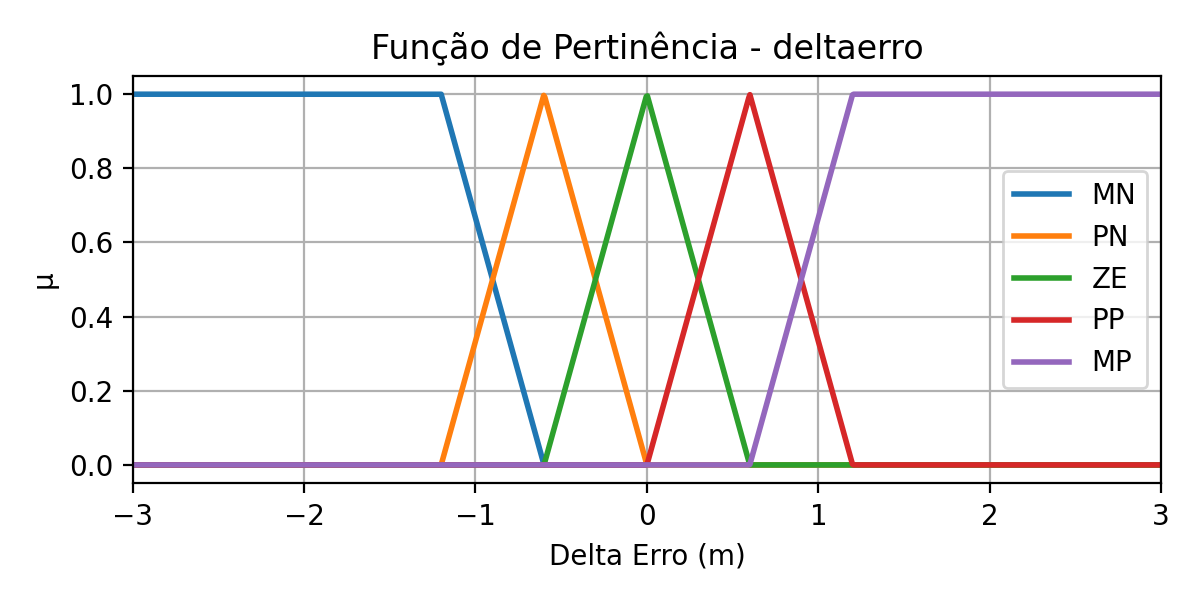
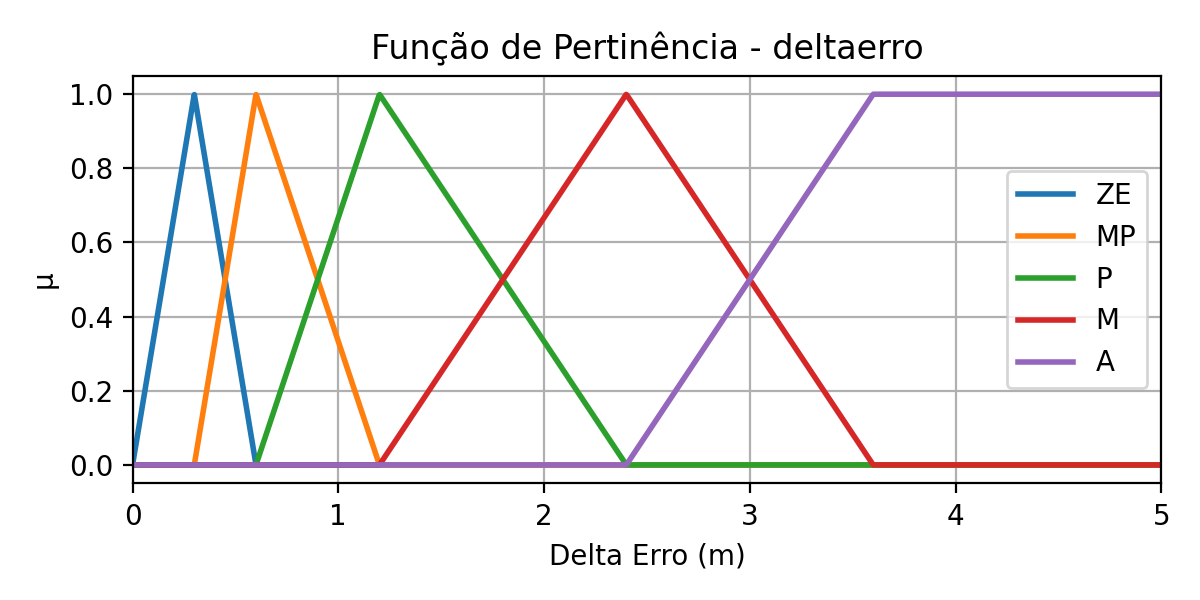
feat: modificações

diff --git a/main.py b/main.py
@@ -9,21 +9,21 @@ from tabulate import tabulate
 import re
 
 # === Fuzzy System Setup ===
-Erro = ctrl.Antecedent(np.arange(-32, 32.1, 1), 'Erro')
-DeltaErro = ctrl.Antecedent(np.arange(-32, 32.1, 1), 'DeltaErro')
+Erro = ctrl.Antecedent(np.arange(0, 32.1, 1), 'Erro')
+DeltaErro = ctrl.Antecedent(np.arange(0, 32.1, 1), 'DeltaErro')
 PMotor = ctrl.Consequent(np.arange(0, 91, 1), 'PMotor')
 
-Erro['MN'] = fuzzy.trapmf(Erro.universe, [-32, -32, -1.2, -0.6])
-Erro['PN'] = fuzzy.trimf(Erro.universe, [-1.2, -0.6, 0])
-Erro['ZE'] = fuzzy.trimf(Erro.universe, [-0.6, 0, 0.6])
-Erro['PP'] = fuzzy.trimf(Erro.universe, [0, 0.6, 1.2])
-Erro['MP'] = fuzzy.trapmf(Erro.universe, [0.6, 1.2, 32, 32])
+Erro['ZE'] = fuzzy.trimf(Erro.universe, [0, 0.3, 0.6])
+Erro['MP'] = fuzzy.trimf(Erro.universe, [0.3, 0.6, 1.2])
+Erro['P'] = fuzzy.trimf(Erro.universe, [0.6, 1.2, 2.4])
+Erro['M'] = fuzzy.trimf(Erro.universe, [1.2, 2.4, 3.6])
+Erro['A'] = fuzzy.trapmf(Erro.universe, [2.4, 3.6, 32, 32])
 
-DeltaErro['MN'] = fuzzy.trapmf(Erro.universe, [-32, -32, -1.2, -0.6])
-DeltaErro['PN'] = fuzzy.trimf(Erro.universe, [-1.2, -0.6, 0])
-DeltaErro['ZE'] = fuzzy.trimf(Erro.universe, [-0.6, 0, 0.6])
-DeltaErro['PP'] = fuzzy.trimf(Erro.universe, [0, 0.6, 1.2])
-DeltaErro['MP'] = fuzzy.trapmf(Erro.universe, [0.6, 1.2, 32, 32])
+DeltaErro['ZE'] = fuzzy.trimf(Erro.universe, [0, 0.3, 0.6])
+DeltaErro['MP'] = fuzzy.trimf(Erro.universe, [0.3, 0.6, 1.2])
+DeltaErro['P'] = fuzzy.trimf(Erro.universe, [0.6, 1.2, 2.4])
+DeltaErro['M'] = fuzzy.trimf(Erro.universe, [1.2, 2.4, 3.6])
+DeltaErro['A'] = fuzzy.trapmf(Erro.universe, [2.4, 3.6, 32, 32])
 
 PMotor['I'] = fuzzy.trimf(PMotor.universe, [0, 15.75, 31.5])
 PMotor['P'] = fuzzy.trimf(PMotor.universe, [15.75, 31.5, 45])
@@ -47,35 +47,35 @@ PMotor['A'] = fuzzy.trimf(PMotor.universe, [45, 90, 90])
 #         regras.append(ctrl.Rule(Erro[e] & DeltaErro[d], PMotor[s]))
 
 # Definição das regras fuzzy
-R1 = ctrl.Rule(Erro['MN'] & DeltaErro['MN'], PMotor['A'])
-R2 = ctrl.Rule(Erro['PN'] & DeltaErro['MN'], PMotor['A'])
-R3 = ctrl.Rule(Erro['ZE'] & DeltaErro['MN'], PMotor['A'])
-R4 = ctrl.Rule(Erro['PP'] & DeltaErro['MN'], PMotor['M'])
-R5 = ctrl.Rule(Erro['MP'] & DeltaErro['MN'], PMotor['M'])
+R1 = ctrl.Rule(Erro['ZE'] & DeltaErro['ZE'], PMotor['I'])
+R2 = ctrl.Rule(Erro['MP'] & DeltaErro['ZE'], PMotor['P'])
+R3 = ctrl.Rule(Erro['P'] & DeltaErro['ZE'], PMotor['P'])
+R4 = ctrl.Rule(Erro['M'] & DeltaErro['ZE'], PMotor['P'])
+R5 = ctrl.Rule(Erro['A'] & DeltaErro['ZE'], PMotor['M'])
 
-R6 = ctrl.Rule(Erro['MN'] & DeltaErro['PN'], PMotor['A'])
-R7 = ctrl.Rule(Erro['PN'] & DeltaErro['PN'], PMotor['A'])
-R8 = ctrl.Rule(Erro['ZE'] & DeltaErro['PN'], PMotor['M'])
-R9 = ctrl.Rule(Erro['PP'] & DeltaErro['PN'], PMotor['M'])
-R10 = ctrl.Rule(Erro['MP'] & DeltaErro['PN'], PMotor['M'])
+R6 = ctrl.Rule(Erro['ZE'] & DeltaErro['MP'], PMotor['P'])
+R7 = ctrl.Rule(Erro['MP'] & DeltaErro['MP'], PMotor['P'])
+R8 = ctrl.Rule(Erro['P'] & DeltaErro['MP'], PMotor['P'])
+R9 = ctrl.Rule(Erro['M'] & DeltaErro['MP'], PMotor['M'])
+R10 = ctrl.Rule(Erro['A'] & DeltaErro['MP'], PMotor['M'])
 
-R11 = ctrl.Rule(Erro['MN'] & DeltaErro['ZE'], PMotor['A'])
-R12 = ctrl.Rule(Erro['PN'] & DeltaErro['ZE'], PMotor['M'])
-R13 = ctrl.Rule(Erro['ZE'] & DeltaErro['ZE'], PMotor['M'])
-R14 = ctrl.Rule(Erro['PP'] & DeltaErro['ZE'], PMotor['M'])
-R15 = ctrl.Rule(Erro['MP'] & DeltaErro['ZE'], PMotor['P'])
+R11 = ctrl.Rule(Erro['ZE'] & DeltaErro['P'], PMotor['P'])
+R12 = ctrl.Rule(Erro['MP'] & DeltaErro['P'], PMotor['P'])
+R13 = ctrl.Rule(Erro['P'] & DeltaErro['P'], PMotor['M'])
+R14 = ctrl.Rule(Erro['M'] & DeltaErro['P'], PMotor['M'])
+R15 = ctrl.Rule(Erro['A'] & DeltaErro['P'], PMotor['A'])
 
-R16 = ctrl.Rule(Erro['MN'] & DeltaErro['PP'], PMotor['M'])
-R17 = ctrl.Rule(Erro['PN'] & DeltaErro['PP'], PMotor['M'])
-R18 = ctrl.Rule(Erro['ZE'] & DeltaErro['PP'], PMotor['M'])
-R19 = ctrl.Rule(Erro['PP'] & DeltaErro['PP'], PMotor['P'])
-R20 = ctrl.Rule(Erro['MP'] & DeltaErro['PP'], PMotor['P'])
+R16 = ctrl.Rule(Erro['ZE'] & DeltaErro['M'], PMotor['P'])
+R17 = ctrl.Rule(Erro['MP'] & DeltaErro['M'], PMotor['M'])
+R18 = ctrl.Rule(Erro['P'] & DeltaErro['M'], PMotor['M'])
+R19 = ctrl.Rule(Erro['M'] & DeltaErro['M'], PMotor['A'])
+R20 = ctrl.Rule(Erro['A'] & DeltaErro['M'], PMotor['A'])
 
-R21 = ctrl.Rule(Erro['MN'] & DeltaErro['MP'], PMotor['M'])
-R22 = ctrl.Rule(Erro['PN'] & DeltaErro['MP'], PMotor['M'])
-R23 = ctrl.Rule(Erro['ZE'] & DeltaErro['MP'], PMotor['P'])
-R24 = ctrl.Rule(Erro['PP'] & DeltaErro['MP'], PMotor['P'])
-R25 = ctrl.Rule(Erro['MP'] & DeltaErro['MP'], PMotor['P'])
+R21 = ctrl.Rule(Erro['ZE'] & DeltaErro['A'], PMotor['M'])
+R22 = ctrl.Rule(Erro['MP'] & DeltaErro['A'], PMotor['M'])
+R23 = ctrl.Rule(Erro['P'] & DeltaErro['A'], PMotor['A'])
+R24 = ctrl.Rule(Erro['M'] & DeltaErro['A'], PMotor['A'])
+R25 = ctrl.Rule(Erro['A'] & DeltaErro['A'], PMotor['A'])
 
 # Montagem da base de regras
 qtdRegras = len(Erro.terms) * len(DeltaErro.terms)
@@ -127,7 +127,7 @@ def controle_loop():
     Ts = 0.2
 
     k1 = 1 if setpoint > posicao_atual else -1
-    erro_anterior = posicao_atual - setpoint
+    erro_anterior = abs(posicao_atual - setpoint)
 
     for i in range(10):
         if parar_controle:
@@ -146,16 +146,26 @@ def controle_loop():
             em_execucao = False
             return
 
-        erro = posicao_atual - setpoint
-        delta_erro = erro - erro_anterior
+        erro = abs(posicao_atual - setpoint)
+        delta_erro = abs(erro - erro_anterior)
 
-        if abs(erro) <= 0.03:
-            break
+        if erro <= 0.03:
+            em_execucao = False
+            return
 
         controle.input['Erro'] = erro
         controle.input['DeltaErro'] = delta_erro
         controle.compute()
-        potencia = controle.output['PMotor'] / 100
+        try:
+            potencia = controle.output['PMotor'] / 100
+        except KeyError:
+            print("Erro ao acessar PMotor. Verifique as entradas e regras.")
+            print("Entradas:")
+            print(f"Erro = {erro}, DeltaErro = {delta_erro}")
+            print(f"posicao_atual = {posicao_atual}")
+            print(f"setpoint = {setpoint}")
+            print("Saídas disponíveis:", controle.output)
+            return
 
         posicao_atual = abs(k1 * posicao_atual * 0.9995 + potencia * 0.212312)
         client.publish(topic_posicao, round(posicao_atual, 3))

diff --git a/gerar_graficos.py b/gerar_graficos.py
@@ -19,16 +19,16 @@ def plot_mf(x, funcs, labels, filename, zoom=None, xlabel="Universo"):
     plt.close()
 
 # Erro e DeltaErro
-x = np.linspace(-32, 33, 10000)
+x = np.linspace(0, 33, 10000)
 erro = [
-    fuzzy.trapmf(x, [-32, -32, -1.2, -0.6]),
-    fuzzy.trimf(x, [-1.2, -0.6, 0]),
-    fuzzy.trimf(x, [-0.6, 0, 0.6]),
-    fuzzy.trimf(x, [0, 0.6, 1.2]),
-    fuzzy.trapmf(x, [0.6, 1.2, 32, 32])
+    fuzzy.trimf(x, [0, 0.3, 0.6]),
+    fuzzy.trimf(x, [0.3, 0.6, 1.2]),
+    fuzzy.trimf(x, [0.6, 1.2, 2.4]),
+    fuzzy.trimf(x, [1.2, 2.4, 3.6]),
+    fuzzy.trapmf(x, [2.4, 3.6, 32, 32])
 ]
-plot_mf(x, erro, ['MN','PN','ZE','PP','MP'], 'erro.png', zoom=[-3, 3], xlabel="Erro (m)")
-plot_mf(x, erro, ['MN','PN','ZE','PP','MP'], 'deltaerro.png', zoom=[-3, 3], xlabel="Delta Erro (m)")
+plot_mf(x, erro, ['ZE','MP','P','M','A'], 'erro.png', zoom=[0, 5], xlabel="Erro (m)")
+plot_mf(x, erro, ['ZE','MP','P','M','A'], 'deltaerro.png', zoom=[0, 5], xlabel="Delta Erro (m)")
 
 # PMotor
 x2 = np.linspace(0, 100, 1000)
